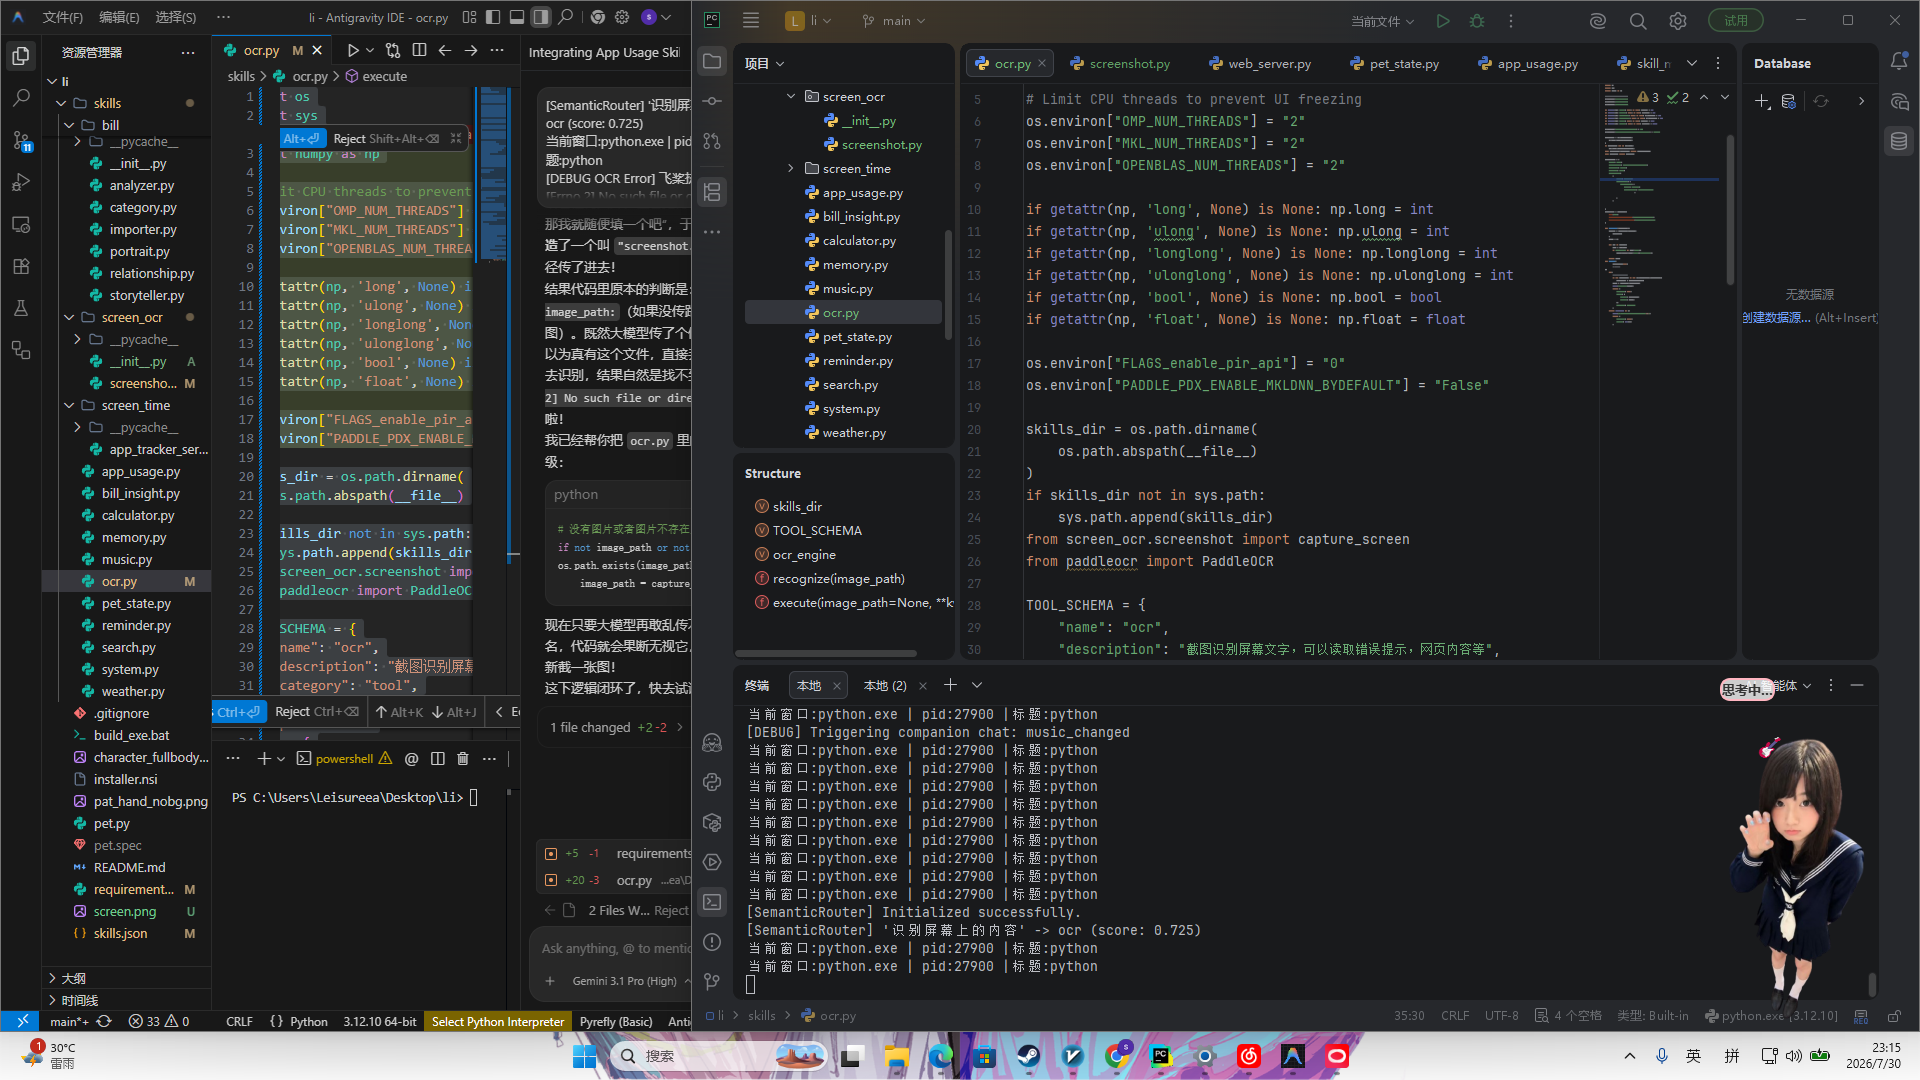
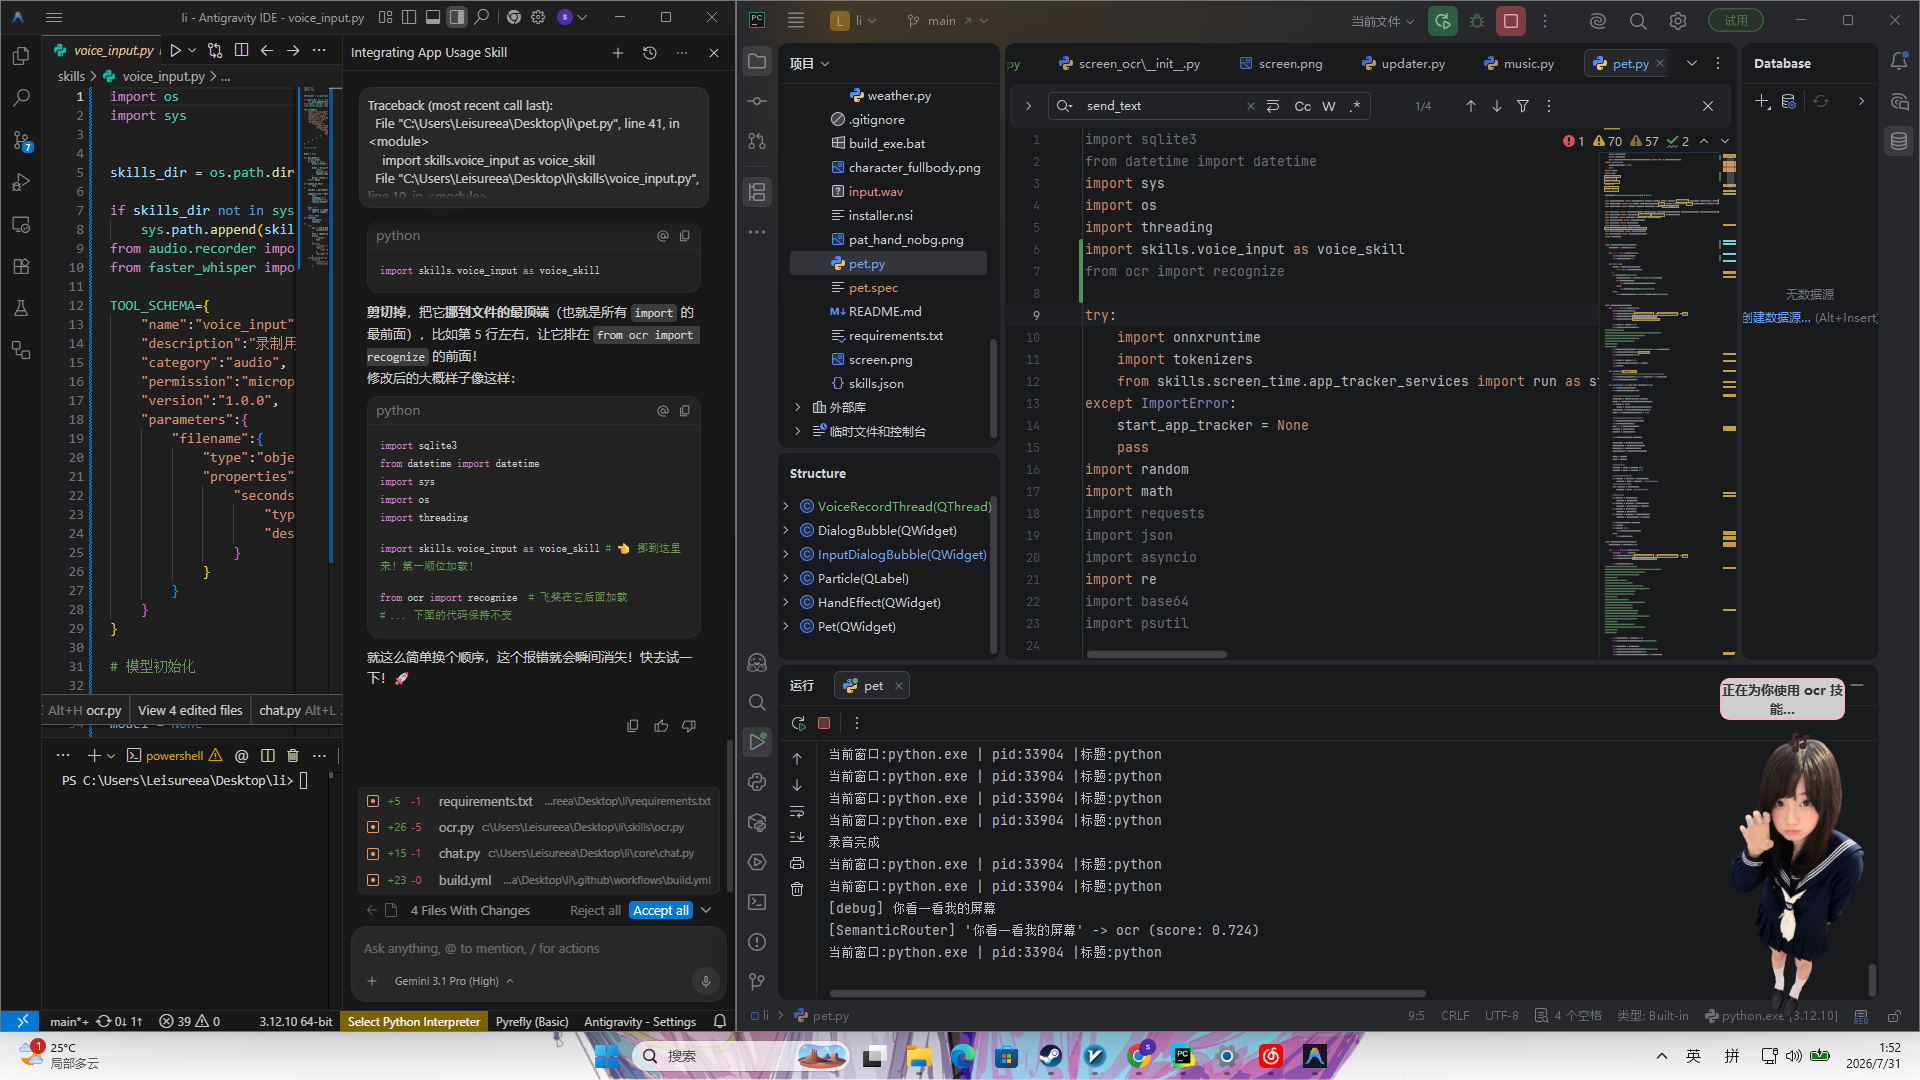
feat: Add floating voice button, VAD recording, and optimize logic

diff --git a/pet.py b/pet.py
@@ -3,6 +3,9 @@ from datetime import datetime
 import sys
 import os
 import threading
+import skills.voice_input as voice_skill
+from ocr import recognize
+
 try:
     import onnxruntime
     import tokenizers
@@ -35,6 +38,25 @@ from core.skill_manager import SkillManager
 from core.web_server import WebServerThread
 from core.updater import UpdateCheckerThread
 import webbrowser
+
+
+class VoiceRecordThread(QThread):
+    text_ready = pyqtSignal(str)
+
+    def __init__(self,parent=None):
+        super().__init__(parent)
+
+    def run(self):
+        result = voice_skill.execute()
+        if result.get("success"):
+            recognized_text = result["data"]["text"].strip()
+            if recognized_text:
+                self.text_ready.emit(recognized_text)
+            else:
+                self.text_ready.emit("(没有听清，再说一遍哦)")
+        else:
+            self.text_ready.emit(f"(录音出错了:{result.get('error')})")
+
 
 
 class DialogBubble(QWidget):
@@ -165,7 +187,7 @@ class InputDialogBubble(QWidget):
         self.line_edit.setPlaceholderText("对彤彤说点什么...")
         self.line_edit.setMinimumWidth(160)
         self.line_edit.returnPressed.connect(self.send_text)
-        
+
         self.send_btn = QPushButton("发送")
         self.send_btn.clicked.connect(self.send_text)
         
@@ -193,6 +215,14 @@ class InputDialogBubble(QWidget):
         if text:
             self.text_entered.emit(text)
         self.hide()
+    def on_voice_finished(self,text):
+        self.voice_btn.setEnabled(True)
+        self.voice_btn.setText("🎤")
+        if not text.startswith("("):
+            self.line_edit.setText(text)
+            self.send_text()
+        else:
+            self.line_edit.setText(text)
 
 class Particle(QLabel):
     def __init__(self, parent, text, color, start_pos, end_pos, duration=1500):
@@ -473,6 +503,23 @@ class Pet(QWidget):
         aspect = self.pixmap.width() / self.pixmap.height()
         self.base_width = int(self.base_height * aspect)
         
+        # ---- 语音悬浮按钮 ----
+        self.voice_btn = QPushButton("🎤", self)
+        self.voice_btn.setStyleSheet("""
+            QPushButton {
+                background-color: rgba(255, 255, 255, 200);
+                border: 2px solid #ffb6c1;
+                border-radius: 20px;
+                font-size: 18px;
+            }
+            QPushButton:hover {
+                background-color: #ff91a4;
+            }
+        """)
+        self.voice_btn.setFixedSize(40, 40)
+        self.voice_btn.clicked.connect(self.start_voice_input)
+        self.voice_btn.show()
+
         self.update_image()
         self.dragging = False
         self.offset = QPoint()
@@ -787,6 +834,11 @@ class Pet(QWidget):
         self.idle_timer.stop()
         self.idle_timer.start(600000)
 
+    def resizeEvent(self, event):
+        super().resizeEvent(event)
+        if hasattr(self, 'voice_btn'):
+            self.voice_btn.move(self.width() - 50, self.height() - 50)
+
     def mousePressEvent(self, event):
         self.reset_idle_timer()
         if not self.input_bubble.isHidden():
@@ -983,6 +1035,22 @@ class Pet(QWidget):
     def on_input_entered(self, text):
         self.show_bubble("思考中...")
         self.chat_thread.send_message(text, is_idle=False)
+
+    def start_voice_input(self):
+        self.voice_btn.setEnabled(False)
+        self.voice_btn.setText("👂")
+        
+        self.voice_thread = VoiceRecordThread(self)
+        self.voice_thread.text_ready.connect(self.on_voice_finished)
+        self.voice_thread.start()
+        
+    def on_voice_finished(self, text):
+        self.voice_btn.setEnabled(True)
+        self.voice_btn.setText("🎤")
+        if not text.startswith("（"):
+            if self.chat_thread is not None:
+                self.show_bubble("思考中...")
+                self.chat_thread.send_message(text, is_idle=False)
 
     def action_chat(self):
         screen_rect = QApplication.primaryScreen().availableGeometry()

diff --git a/skills/audio/recorder.py b/skills/audio/recorder.py
@@ -1,0 +1,66 @@
+import sounddevice as sd
+import numpy as np
+from scipy.io.wavfile import write
+
+def record_audio(
+        filename="input.wav",
+        samplerate=16000,
+        silence_threshold=0.015, # 音量阈值 (0-1)，可以根据麦克风底噪微调
+        silence_duration=1.5,    # 说话停顿几秒认为结束
+        timeout=5.0,             # 如果一开始不说话，几秒后自动放弃
+        max_duration=30.0        # 最大录音时长，防止无限录音
+):
+    print("🎤 正在听你说话... (自动检测停顿)")
+    
+    recording = []
+    chunk_duration = 0.1 # 每次读取 100ms 的声音片段
+    chunk_samples = int(samplerate * chunk_duration)
+    
+    max_chunks = int(max_duration / chunk_duration)
+    silence_limit = int(silence_duration / chunk_duration)
+    timeout_limit = int(timeout / chunk_duration)
+    
+    silent_chunks = 0
+    initial_silent_chunks = 0
+    has_spoken = False
+    
+    try:
+        # 使用 InputStream 流式读取麦克风数据
+        with sd.InputStream(samplerate=samplerate, channels=1, dtype='int16') as stream:
+            for _ in range(max_chunks):
+                chunk, overflow = stream.read(chunk_samples)
+                recording.append(chunk)
+                
+                # 计算这个片段的均方根音量 (RMS)，并归一化到 0.0 - 1.0 的范围
+                rms = np.sqrt(np.mean(chunk.astype(np.float32)**2)) / 32768.0
+                
+                if rms > silence_threshold:
+                    # 声音超过阈值，说明正在说话
+                    has_spoken = True
+                    silent_chunks = 0 # 重置停顿计数器
+                else:
+                    # 声音低于阈值
+                    if has_spoken:
+                        silent_chunks += 1
+                    else:
+                        initial_silent_chunks += 1
+                        
+                # 判断是否该结束录音
+                if has_spoken and silent_chunks >= silence_limit:
+                    print("✅ 检测到说话结束。")
+                    break
+                    
+                if not has_spoken and initial_silent_chunks >= timeout_limit:
+                    print("⏱ 太久没说话，自动结束监听。")
+                    break
+                    
+    except Exception as e:
+        print(f"录音出错: {e}")
+
+    # 将所有片段拼接为完整的音频数组并保存
+    if recording:
+        audio_data = np.concatenate(recording, axis=0)
+        write(filename, samplerate, audio_data)
+        print("💾 录音保存完成")
+        
+    return filename

diff --git a/skills/voice_input.py b/skills/voice_input.py
@@ -1,0 +1,93 @@
+import os
+import sys
+
+
+skills_dir = os.path.dirname(os.path.abspath(__file__))
+
+if skills_dir not in sys.path:
+    sys.path.append(skills_dir)
+from audio.recorder import record_audio
+from faster_whisper import WhisperModel
+
+TOOL_SCHEMA={
+    "name":"voice_input",
+    "description":"录制用户语音转文字",
+    "category":"audio",
+    "permission":"microphone",
+    "version":"1.0.0",
+    "parameters":{
+        "filename":{
+            "type":"object",
+            "properties":{
+                "seconds":{
+                    "type":"integer",
+                    "description":"录音时长"
+                }
+            }
+        }
+    }
+}
+
+# 模型初始化
+
+
+model = None
+
+def get_model():
+    global model
+    if model is None:
+        print("[DEBUG] loading whisper...")
+
+        model = WhisperModel(
+            "small",
+            device="cpu",
+            compute_type="int8"
+        )
+        print("[DEBUG] whisper loaded")
+    return model
+
+def speech_to_text(
+        file
+):
+    whisper = get_model()
+
+    segments,info = whisper.transcribe(
+        file,
+        language="zh",
+        vad_filter=True,
+        initial_prompt="这是一个电脑助手语音指令："
+
+    )
+    text = ""
+    for segment in segments:
+        text += segment.text
+
+    return text
+def execute(
+        **kwargs
+):
+    try:
+        wav = record_audio()
+        text = speech_to_text(wav)
+        
+        # 识别完成后自动删除临时录音文件
+        import os
+        if os.path.exists(wav):
+            os.remove(wav)
+            
+        print(
+            "[debug]",
+            text
+        )
+        return {
+            "success": True,
+            "data":{
+                "text":text
+            },
+            "message":"识别完成"
+        }
+    except Exception as e:
+        return {
+            "success": False,
+            "error":str(e)
+        }

diff --git a/core/config.py b/core/config.py
@@ -3,7 +3,7 @@ import sys
 import json
 from .utils import get_data_dir, load_encrypted_json, save_encrypted_json
 
-CURRENT_VERSION = "v1.4.2"
+CURRENT_VERSION = "v1.5.0"
 
 def load_config():
     old_config_path = os.path.join(get_data_dir(), "config.json")
